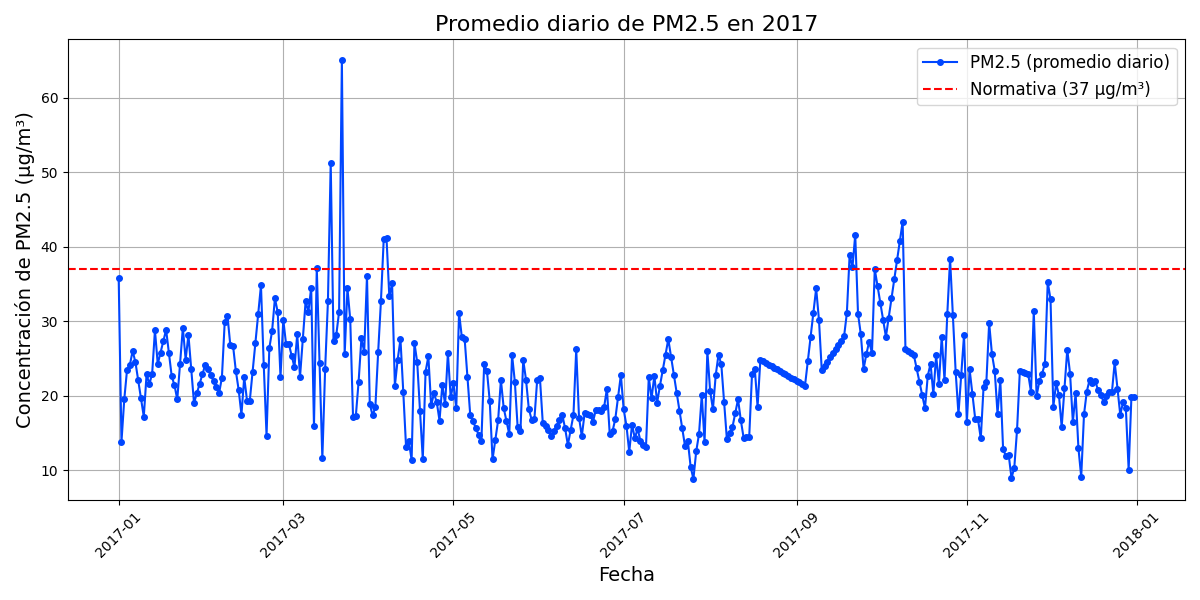
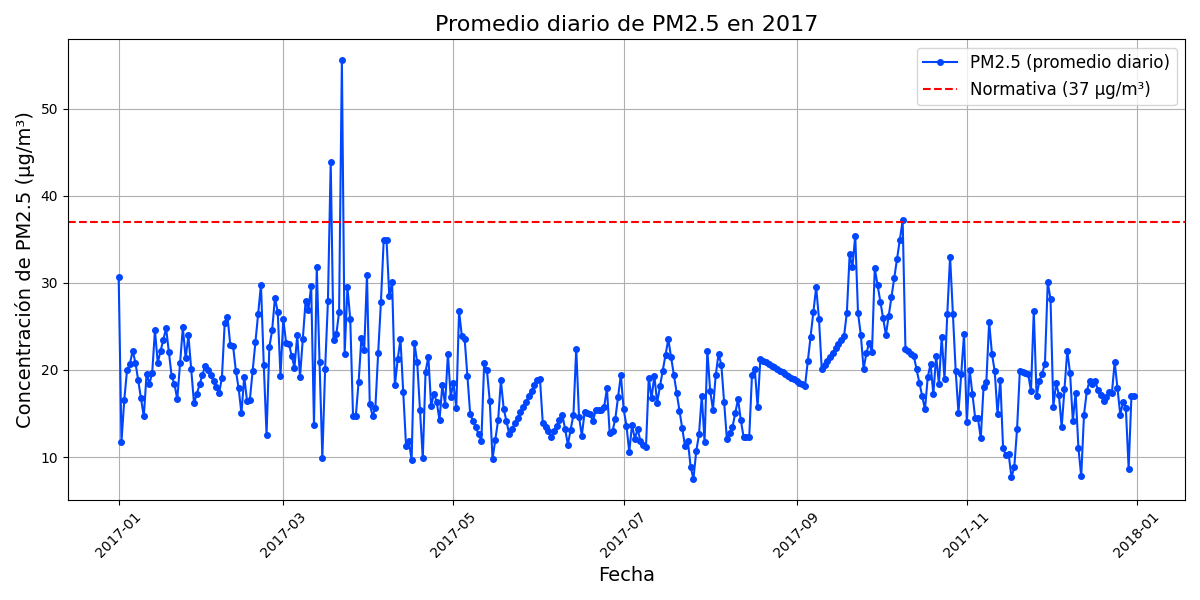
[UPDATE]

diff --git a/main.py b/main.py
@@ -1,7 +1,9 @@
 import pandas as pd
 import matplotlib.pyplot as plt
 import numpy as np
+from windrose import WindroseAxes
 from matplotlib import cm
+
 
 
 #¿ Rutas de los archivos CSV a leer 
@@ -25,6 +27,10 @@ meses = ['enero', 'febrero', 'marzo', 'abril', 'mayo', 'junio',
 dias_meses = [31, 28, 31, 30, 31, 30, 31, 31, 30, 31, 30, 31]
 diccionario_data_frames = {}
 
+#¿ Parámetros de referencia
+Presion_referencia = 1013.25 #hPa a nivel del mar
+Temperatura_referencia = 298.15 # 25°C en Kelvin
+Presion_Local = 850 # hPa Presion local de Medellín
 
 #¿ Variables con colores para gráficos
 BLUE = '#0046FF'
@@ -50,11 +56,9 @@ for i in range(len(rutas)):
                         'co','calidad_co',
                         'so2','calidad_so2',
                         'pst','calidad_pst',
-                        'dviento_ssr','calidad_dviento_ssr',
                         'haire10_ssr','calidad_haire10_ssr',
                         'p_ssr','calidad_p_ssr',
                         'rglobal_ssr','calidad_rglobal_ssr',
-                        'vviento_ssr','calidad_vviento_ssr',
                         ])
     datos_mes['Fecha_Hora'] = pd.to_datetime(datos_mes['Fecha_Hora'], format='%Y-%m-%d %H:%M:%S')
     datos_mes.set_index('Fecha_Hora', inplace=True)
@@ -103,21 +107,54 @@ def validar_datos(parametro, variable):
             diccionario_data_frames[mes].loc[mask, variable] = np.nan
         except Exception:
             continue
+    print(f"Se corrigieron los datos para {parametro} y la varaible: {variable}")
 
 #¿ Llamada a la función para validar y limpiar los datos para el parámetro deseado
 validar_datos(parametro='calidad_pm25', variable='pm25') #? Para calidad pm2.5
 validar_datos(parametro='calidad_pliquida_ssr', variable='pliquida_ssr') #? Para calidad de precipitación líquida
-#validar_datos(parametro='calidad_taire10_ssr',variable='calidad_taire10_ssr') #? Para calidad de temperatura del aire a 10m
+validar_datos(parametro='calidad_taire10_ssr',variable='taire10_ssr') #? Para calidad de temperatura del aire a 10m
+validar_datos(parametro="calidad_dviento_ssr",variable="dviento_ssr") #? Para calidad de dirección de viento
+validar_datos(parametro="calidad_vviento_ssr", variable="vviento_ssr") #? Para calidad de velocidad viento
+
+#¿ Ajustar los datos a condiciones de referencia
+def ajustar_pm25_condiciones_referencia(df, temp_col='taire10_ssr', pres_col=None):
+    """
+    Ajusta la concentración de PM2.5 a condiciones de referencia (25 °C, 1 atm).
+    Usa la ley de los gases ideales.
+    Parámetros:
+        df: DataFrame con columnas de pm25, temperatura y (opcionalmente) presión.
+        temp_col: nombre de la columna de temperatura (°C)
+        pres_col: nombre de la columna de presión (hPa). Si None, se usa 1013.25 o valor estimado.
+    Retorna:
+        DataFrame con una nueva columna 'pm25_ref' (µg/m³ normalizado).
+    """
+    # Condiciones de referencia
+    P_ref = Presion_referencia
+    T_ref = Temperatura_referencia
+
+    # Temperatura medida en Kelvin
+    T = df[temp_col] + 273.15
+
+    # Presión atmosférica local
+    P = Presion_Local  
+
+    # Calcular concentración normalizada
+    df['pm25_ref'] = df['pm25'] * (P / P_ref) * (T_ref / T)
+    print('Se ajustaron los datos de pm 2.5 a condiciones de referencia')
+    return df
 
 
 #¿ Concatenar todos los DataFrames mensuales en uno anual y ordenar índice por fecha
 data_frame_anual = pd.concat([diccionario_data_frames[mes] for mes in meses], axis=0)
 data_frame_anual.sort_index(inplace=True)
 
+#¿ Ajustar PM2.5 a condiciones de referencia
+data_frame_anual = ajustar_pm25_condiciones_referencia(data_frame_anual, temp_col='taire10_ssr')
+
 
 def graficar_calidad_25_diario():
     """Esta función grafica el promedio diario de PM2.5 a lo largo del año 2017."""
-    df_diario = data_frame_anual.resample('D')['pm25'].mean().interpolate(method='linear')
+    df_diario = data_frame_anual.resample('D')['pm25_ref'].mean().interpolate(method='linear')
     plt.figure(figsize=(12, 6))
     plt.plot(df_diario.index, df_diario, marker='o', linestyle='-', color=BLUE, markersize=4, label='PM2.5 (promedio diario)')
     plt.title('Promedio diario de PM2.5 en 2017', fontsize=16)
@@ -129,16 +166,17 @@ def graficar_calidad_25_diario():
     plt.xticks(rotation=45)
     plt.tight_layout()
     plt.savefig('promedio_diario_pm25.png')
+    print('Se generó el gráfico de promedio diario')
     #plt.show()
 
 
 def graficar_calidad_25_mensual():
     """Esta función grafica el promedio mensual de PM2.5 a lo largo del año 2017."""
     # Calcular el promedio mensual
-    df_mensual = data_frame_anual.resample('M').mean()
+    df_mensual = data_frame_anual.resample('ME').mean()
     
     # Datos para apilar: pm25
-    pm25 = df_mensual['pm25']
+    pm25 = df_mensual['pm25_ref']
     
     # Crear gráfico de barras apiladas
     plt.figure(figsize=(12, 8))
@@ -154,13 +192,14 @@ def graficar_calidad_25_mensual():
     plt.xticks(rotation=45)
     plt.tight_layout()
     plt.savefig('promedio_mensual_pm25.png')
+    print('Se generó el gráfico de promedio mensual')
     #plt.show()
 
 
 def graficar_promedio_anual_apilado():
     """Esta función grafica el promedio anual de PM2.5 en 2017 como una sola barra."""
     # Calcular el promedio anual
-    promedio_anual_pm25 = data_frame_anual['pm25'].mean()
+    promedio_anual_pm25 = data_frame_anual['pm25_ref'].mean()
 
     # Crear un gradiente de colores para la barra
     
@@ -189,6 +228,7 @@ def graficar_promedio_anual_apilado():
     plt.ylim(0, max(40, promedio_anual_pm25 * 1.2))  # Ajustar límite Y para visibilidad
     plt.tight_layout()
     plt.savefig('promedio_anual_pm25.png')
+    print('Se generó el gráfico anual apilado')
     #plt.show()
 
 
@@ -204,21 +244,22 @@ def graficar_ciclo_diurno_pm25():
     data_frame_anual['hora'] = data_frame_anual.index.hour
 
     # Promedio general por hora (ciclo diurno)
-    promedio_diurno = data_frame_anual.groupby('hora')['pm25'].mean()
+    promedio_diurno = data_frame_anual.groupby('hora')['pm25_ref'].mean()
 
     # Promedio diario para identificar día máximo y mínimo
-    promedio_diario = data_frame_anual.resample('D')['pm25'].mean()
+    promedio_diario = data_frame_anual.resample('D')['pm25_ref'].mean()
     dia_max = promedio_diario.idxmax().date()
     dia_min = promedio_diario.idxmin().date()
 
     # Extraer datos de esos días
-    pm25_dia_max = data_frame_anual[data_frame_anual.index.date == dia_max].groupby('hora')['pm25'].mean()
-    pm25_dia_min = data_frame_anual[data_frame_anual.index.date == dia_min].groupby('hora')['pm25'].mean()
+    pm25_dia_max = data_frame_anual[data_frame_anual.index.date == dia_max].groupby('hora')['pm25_ref'].mean()
+    pm25_dia_min = data_frame_anual[data_frame_anual.index.date == dia_min].groupby('hora')['pm25_ref'].mean()
 
     # Reindexar para asegurar 24 horas (0–23)
     horas = range(24)
-    pm25_dia_max = pm25_dia_max.reindex(horas).interpolate().fillna(method="bfill").fillna(method="ffill")
-    pm25_dia_min = pm25_dia_min.reindex(horas).interpolate().fillna(method="bfill").fillna(method="ffill")
+    pm25_dia_max = pm25_dia_max.reindex(horas).interpolate().bfill().ffill()
+    pm25_dia_min = pm25_dia_min.reindex(horas).interpolate().bfill().ffill()
+
 
     # Crear gráfico
     plt.figure(figsize=(10, 6))
@@ -235,6 +276,7 @@ def graficar_ciclo_diurno_pm25():
     plt.legend(fontsize=12, loc="upper right") 
     plt.tight_layout()
     plt.savefig('ciclo_diurno_pm25.png')
+    print('Se generó el gráfico de ciclo diurno')
     #plt.show()
 
 
@@ -250,7 +292,7 @@ def graficar_ciclo_semanal_pm25_precipitacion():
     data_frame_anual['dia_semana'] = data_frame_anual.index.dayofweek
 
     # Promedio de PM2.5 por día de la semana
-    pm25_semanal = data_frame_anual.groupby('dia_semana')['pm25'].mean()
+    pm25_semanal = data_frame_anual.groupby('dia_semana')['pm25_ref'].mean()
 
     # Precipitación total por día de la semana
     precipitacion_semanal = data_frame_anual.groupby('dia_semana')['pliquida_ssr'].sum()
@@ -295,11 +337,47 @@ def graficar_ciclo_semanal_pm25_precipitacion():
     plt.tight_layout()
     plt.savefig('ciclo_semanal_pm25_precipitacion.png')
     #plt.show()
+    print('Se generó el gráfico de ciclo semanal con frecuencia de precipitación')
 
+def graficar_rosa_vientos_anual():
+    """
+    Grafica la rosa de los vientos anual (frecuencia y velocidad)
+    a partir de las columnas 'dviento_ssr' (dirección) y 'vviento_ssr' (velocidad)
+    """
+
+    #  Crear figura y ejes tipo Windrose
+    fig = plt.figure(figsize=(8, 8))
+    ax = WindroseAxes.from_ax()
+
+    #  Crear la rosa del viento por rangos de velocidad
+    ax.bar(data_frame_anual['dviento_ssr'],
+           data_frame_anual['vviento_ssr'],
+           bins=[0, 1, 5, 8,10],     # rangos de velocidad (m/s)
+           cmap=plt.cm.viridis,              # escala de color
+           normed=True,                      # porcentaje (%)
+           opening=0.8,                      # separación entre barras
+           edgecolor='white')
+    
+    # Mostrar frecuencias en porcentaje en los círculos ---
+    valores, etiquetas = plt.yticks()
+    ax.set_rgrids(valores, [f"{v:.0f}%" for v in valores], angle=60, fontsize=10) # Obtener porcentajes a partir de tamaño datos
+    for text in ax.yaxis.get_ticklabels(): # Agregar buffer blanco para mejor visibilidad
+        text.set_bbox(dict(facecolor='white', edgecolor='none', alpha=0.8, pad=2))
+
+    # Ajustes finales
+    ax.set_theta_zero_location('N')   # 0° apunta al norte
+    ax.set_theta_direction(-1)        # sentido horario
+    ax.set_title('Rosa de los vientos 2017', fontsize=14, pad=20)
+    ax.legend(title='Velocidad (m/s)', loc='lower right', fontsize=10, frameon=True)
+    plt.savefig('rosa_vientos.png')
+    #plt.show()
+    print('Se generó el gráfico de rosa de los vientos')
 
 #¿ Llamadas a las funciones para generar los gráficos
+
 graficar_calidad_25_diario()
 graficar_calidad_25_mensual()
 graficar_promedio_anual_apilado()
 graficar_ciclo_diurno_pm25()
 graficar_ciclo_semanal_pm25_precipitacion()
+graficar_rosa_vientos_anual()

diff --git a/README.md b/README.md
@@ -3,16 +3,17 @@
 [![Python](https://img.shields.io/badge/Python-3.13-blue?logo=python)](https://www.python.org/)
 [![Pandas](https://img.shields.io/badge/Pandas-Data%20Analysis-orange?logo=pandas)](https://pandas.pydata.org/)
 [![Matplotlib](https://img.shields.io/badge/Matplotlib-Visualization-green?logo=plotly)](https://matplotlib.org/)
+[![Windrose](https://img.shields.io/badge/Windrose-Wind%20Analysis-lightblue?logo=windy)](https://pypi.org/project/windrose/)
 [![License](https://img.shields.io/badge/License-MIT-lightgrey)](LICENSE)
 
 📊 Proyecto de análisis y visualización de datos de calidad del aire de una estación urbana durante el año **2017**, con énfasis en el contaminante **PM2.5**.  
-El objetivo es limpiar, validar y graficar los datos para identificar patrones diarios, mensuales y semanales, así como la relación con la precipitación.
+El objetivo es limpiar, validar y graficar los datos para identificar patrones diarios, mensuales y semanales, así como analizar el comportamiento del viento y su efecto sobre la dispersión de contaminantes.
 
 ---
 
 ## 📂 Contenido del repositorio
 
-- `main.py` → Script principal con la carga, limpieza y graficación de los datos.
+- `main.py` → Script principal con la carga, limpieza, ajuste a condiciones de referencia y visualización de los datos.
 - `*.csv` → Archivos de datos horarios mensuales (enero–diciembre 2017).
 - Gráficos generados:
   - 📈 `promedio_diario_pm25.png`
@@ -20,6 +21,7 @@ El objetivo es limpiar, validar y graficar los datos para identificar patrones d
   - 📏 `promedio_anual_pm25.png`
   - 🕑 `ciclo_diurno_pm25.png`
   - 📅 `ciclo_semanal_pm25_precipitacion.png`
+  - 🌬 `rosa_vientos.png`
 
 ---
 
@@ -40,20 +42,25 @@ El objetivo es limpiar, validar y graficar los datos para identificar patrones d
 ### Ciclo semanal de PM2.5 y precipitación
 ![Ciclo semanal](./ciclo_semanal_pm25_precipitacion.png)
 
+### Rosa de los vientos anual
+![Rosa de los vientos](./rosa_vientos.png)
+
 ---
 
 ## ⚙ Tecnologías utilizadas
 - 🐍 **Python 3.13**
 - 📦 **Pandas** – Procesamiento y limpieza de datos
 - 📊 **Matplotlib** – Visualización de datos
+- 🌪 **Windrose** – Representación de direcciones y velocidades del viento
 - 🔍 **Numpy** – Cálculos numéricos
 
 ---
 
-## 🎯 Objetivos
-- Detectar y reasignar valores inválidos en los datos de calidad del aire.
-- Visualizar patrones **diarios, mensuales y anuales** de concentración de PM2.5.
-- Relacionar la variabilidad del contaminante con la **precipitación semanal**.
+## 🎯 Objetivos del proyecto
+- Detectar y reemplazar valores inválidos en las variables ambientales sin eliminar filas completas.
+- Ajustar la concentración de PM2.5 a **condiciones de referencia** a partir de **condiciones locales de temperatura y presión** (25 °C y 1 atm).
+- Visualizar patrones **diarios, mensuales y anuales** de PM2.5.
+- Relacionar la variabilidad del contaminante con la **precipitación semanal** y la **dispersión del viento** mediante la rosa de los vientos.
 
 ---
 
